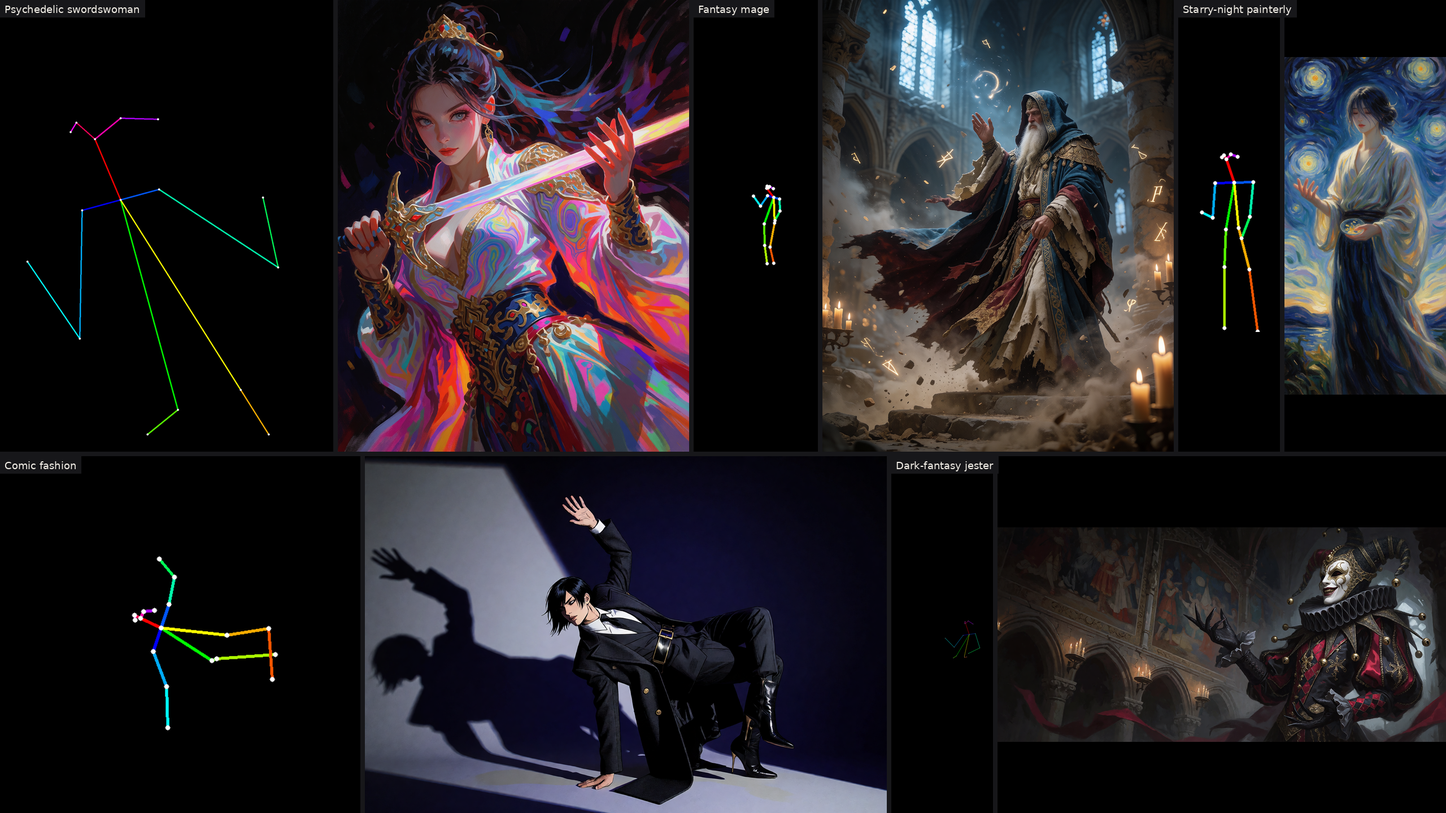
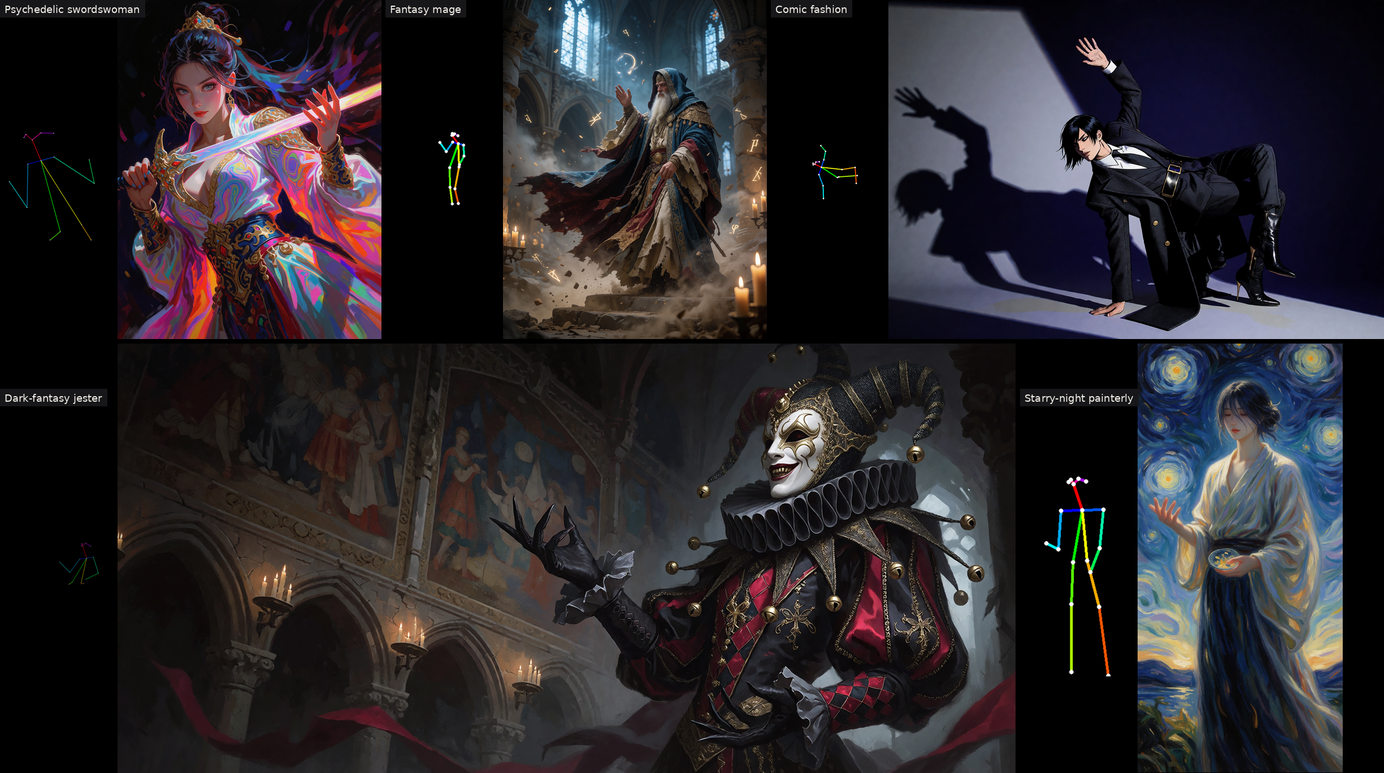
Finalize README showcase layout

diff --git a/scripts/build_final_showcase_collage.py b/scripts/build_final_showcase_collage.py
@@ -26,6 +26,25 @@ WINNERS = HERO_DIR / "final_winners.json"
 PUBLIC_COLLAGE = HERO_DIR / "final_showcase_collage.png"
 LABELED_COLLAGE = HERO_DIR / "final_showcase_collage_labeled.png"
 
+# The public collage is deliberately a dense, equal-weight composition.  Each
+# condition tile has this exact displayed bounding box; source-specific empty
+# space remains black through containment instead of cropping a keypoint.
+CONDITION_TILE_SIZE = (200, 600)
+COLLAGE_SIZE = (2449, 1368)
+GUTTER = 8
+# concept, x, y, generation height. The swordswoman is deliberately first.
+PAIR_ROWS = (
+    (
+        ("female_swordswoman_psychedelic", 0, 0, 600),
+        ("fantasy_mage", 682, 0, 600),
+        ("comic_fashion", 1364, 0, 600),
+    ),
+    (
+        ("dark_fantasy_jester", 0, 608, 760),
+        ("starry_night_painterly", 1805, 608, 760),
+    ),
+)
+
 # This is the user-approved public selection, expressed against frozen IDs.
 SELECTIONS = {
     "fantasy_mage": ("hero_variant", "fantasy_mage_hero_b"),
@@ -224,28 +243,16 @@ def font(size: int) -> ImageFont.ImageFont:
 
 
 def build_collage(contract: Mapping[str, Any], labeled: bool) -> Image.Image:
-    """Build a dense editorial canvas from five inseparable pose/image pairs.
+    """Build five attached, native-aspect-preserving condition/generation pairs.
 
-    Each block is a left condition and right generation.  Panels contain their
-    sources instead of cropping them: preserving a pose, silhouette, and the
-    generated composition takes priority over filling a mismatched rectangle.
-    The varying block sizes create hierarchy without leaving a separate control
-    tile or a presentation-artboard region.
+    The upper row establishes the swordswoman's display scale; the lower row
+    is only modestly taller to pack the jester and tall painterly winner
+    densely.  Every generation is fully contained, and every condition uses
+    the same 200 x 600 tile so no pose becomes a detached thumbnail.
     """
-    canvas = Image.new("RGB", (2560, 1440), "#17171a")
+    canvas = Image.new("RGB", COLLAGE_SIZE, "#000000")
     draw = ImageDraw.Draw(canvas)
     entries = {entry["concept"]: entry for entry in contract["winners"]}
-    # x, y, width, height. The 8 px gaps are the only exposed canvas.
-    # Reading order deliberately begins with the upper-left swordswoman pair.
-    # Source-aspect-friendly blocks make the largest artwork read first, while
-    # containment protects full figures, props, sky, cathedral, and shadows.
-    pair_blocks = {
-        "female_swordswoman_psychedelic": (0, 0, 1220, 800),
-        "fantasy_mage": (1228, 0, 850, 800),
-        "starry_night_painterly": (2086, 0, 474, 800),
-        "comic_fashion": (0, 808, 1570, 632),
-        "dark_fantasy_jester": (1578, 808, 982, 632),
-    }
     labels = {
         "fantasy_mage": "Fantasy mage",
         "dark_fantasy_jester": "Dark-fantasy jester",
@@ -253,33 +260,25 @@ def build_collage(contract: Mapping[str, Any], labeled: bool) -> Image.Image:
         "female_swordswoman_psychedelic": "Psychedelic swordswoman",
         "starry_night_painterly": "Starry-night painterly",
     }
-    pair_gap = 8
-    for concept, (x, y, width, height) in pair_blocks.items():
-        entry = entries[concept]
-        # Allocate the generation panel first.  Unlike the sparse black pose
-        # render, its aspect carries the actual artwork; giving it its native
-        # width wherever the pair permits minimizes letterboxing without ever
-        # cropping.  The condition remains a visibly attached left panel.
-        generation = Image.open(ROOT / entry["generation_path"])
-        generation_aspect = generation.width / generation.height
-        available_width = width - pair_gap
-        minimum_condition_width = min(180, available_width // 2)
-        generation_width = min(
-            round(height * generation_aspect),
-            available_width - minimum_condition_width,
-        )
-        condition_width = available_width - generation_width
-        condition_box = (x, y, condition_width, height)
-        generation_box = (x + condition_width + pair_gap, y, generation_width, height)
-        paste_contain(canvas, ROOT / entry["condition_path"], condition_box)
-        paste_contain(canvas, ROOT / entry["generation_path"], generation_box)
-        if labeled:
-            text = labels[concept]
-            padding = 8
-            text_box = draw.textbbox((0, 0), text, font=font(18))
-            text_width = text_box[2] - text_box[0]
-            draw.rectangle((x, y, x + text_width + 2 * padding, y + 30), fill="#17171a")
-            draw.text((x + padding, y + 6), text, fill="#f4f0e8", font=font(18))
+    condition_width, condition_height = CONDITION_TILE_SIZE
+    for row in PAIR_ROWS:
+        for concept, x, y, generation_height in row:
+            entry = entries[concept]
+            generation = Image.open(ROOT / entry["generation_path"])
+            generation_aspect = generation.width / generation.height
+            generation_width = round(generation_height * generation_aspect)
+            condition_y = y + (generation_height - condition_height) // 2
+            condition_box = (x, condition_y, condition_width, condition_height)
+            generation_box = (x + condition_width + GUTTER, y, generation_width, generation_height)
+            paste_contain(canvas, ROOT / entry["condition_path"], condition_box)
+            paste_contain(canvas, ROOT / entry["generation_path"], generation_box)
+            if labeled:
+                text = labels[concept]
+                padding = 8
+                text_box = draw.textbbox((0, 0), text, font=font(18))
+                text_width = text_box[2] - text_box[0]
+                draw.rectangle((x, condition_y, x + text_width + 2 * padding, condition_y + 30), fill="#17171a")
+                draw.text((x + padding, condition_y + 6), text, fill="#f4f0e8", font=font(18))
     return canvas
 
 

diff --git a/tests/test_build_final_showcase_collage.py b/tests/test_build_final_showcase_collage.py
@@ -14,6 +14,23 @@ SPEC.loader.exec_module(MODULE)
 
 
 class FinalShowcaseContractTest(unittest.TestCase):
+    def test_equal_weight_pair_geometry(self) -> None:
+        pairs = [pair for row in MODULE.PAIR_ROWS for pair in row]
+        self.assertEqual(
+            [concept for concept, *_ in pairs],
+            [
+                "female_swordswoman_psychedelic",
+                "fantasy_mage",
+                "comic_fashion",
+                "dark_fantasy_jester",
+                "starry_night_painterly",
+            ],
+        )
+        self.assertEqual(len(pairs), 5)
+        self.assertEqual(len({concept for concept, *_ in pairs}), 5)
+        self.assertEqual(MODULE.CONDITION_TILE_SIZE, (200, 600))
+        self.assertGreater(MODULE.COLLAGE_SIZE[0], MODULE.COLLAGE_SIZE[1])
+
     def test_frozen_winner_selection_and_assets(self) -> None:
         contract = MODULE.build_contract()
         MODULE.verify_contract(contract)

diff --git a/docs/CODEX_HANDOFF.md b/docs/CODEX_HANDOFF.md
@@ -2,45 +2,36 @@
 
 ## Current objective
 
-The final hero-v1 collage correction is complete. The public/review collages
-now use uncropped, aspect-preserving artwork and lead with the psychedelic
-swordswoman pair. Do not modify frozen release settings, benchmark artifacts,
-winner metadata, prompts, training/evaluation code, checkpoints, or evaluation
-claims as part of showcase documentation work.
+The final public showcase collage and README presentation are complete. Do not
+modify frozen winner selection, prompts, hero-generation assets, prompting
+guide, release contract, benchmarks, training code, or evaluation code as part
+of this completed showcase milestone.
 
-## Definitive public winners
+## Final public showcase
 
-The selection is recorded in
-`docs/showcase/final/hero-v1/final_winners.json`:
-
-- `fantasy_mage` — hero variant B (`fantasy_mage_hero_b`)
-- `dark_fantasy_jester` — original accepted winner
-- `comic_fashion` — hero variant B (`comic_fashion_hero_b`)
-- `female_swordswoman_psychedelic` — original accepted winner
-- `starry_night_painterly` — hero variant A (`starry_night_painterly_hero_a`)
-
-## Public assets and prompt guidance
-
-- Public collage:
-  `docs/showcase/final/hero-v1/final_showcase_collage.png`
+- Public collage: `docs/showcase/final/hero-v1/final_showcase_collage.png`
 - Labeled review collage:
   `docs/showcase/final/hero-v1/final_showcase_collage_labeled.png`
+- Frozen winner contract: `docs/showcase/final/hero-v1/final_winners.json`
 - Reproducible builder: `scripts/build_final_showcase_collage.py`
-- Prompt guide: `prompting.md`
 
-The builder reads winner provenance from frozen manifests and copied sidecars.
-It only composes the existing condition and generation images. The final
-2560×1440 editorial layout consists exclusively of five attached
-`[condition | generation]` pairs, with condition on the left and generation on
-the right. The upper-left, first-read, dominant pair is the psychedelic
-swordswoman. All panels use aspect-preserving containment on black rather than
-crop or distortion, so generation composition and every skeleton keypoint are
-preserved. It has no public labels or floating control tiles; the labeled
-variant has identical geometry and one small concept label per pair.
+The builder creates a dense 2449×1368 landscape composition with five
+inseparable horizontal `[condition | generation]` pairs. Normal reading order
+begins with the psychedelic female swordswoman. Every condition has the same
+displayed 200×600 bounding tile and is fully contained on black. Every
+generation uses native-aspect containment with no crop or distortion. The
+jester has a substantial 760-pixel-high panel, while the other generations
+are 600 or 760 pixels high according to the two-row native-aspect packing;
+none is relegated to a thumbnail. The labeled version uses identical geometry
+and adds only small concept labels.
 
-`prompting.md` retains its core rule, reusable recipe, control/scale guidance,
-frozen examples, conflicting-prompt example, pasteable LLM instruction, and
-optional Style-LoRA guidance. Stray SVG rendering/copy artifacts are absent.
+## README
+
+`README.md` now has a concise `## Showcase` section immediately after the
+introduction. It presents only the final public collage and links to
+`prompting.md`. The prior Status section, stale individual showcase examples,
+review-sheet links, and interim showcase prose were removed. Other inference,
+evaluation, and benchmark material was left unchanged.
 
 ## Verification this session
 
@@ -51,19 +42,23 @@ UV_CACHE_DIR=/tmp/krea2-uv-cache uv run python scripts/build_final_showcase_coll
 UV_CACHE_DIR=/tmp/krea2-uv-cache uv run python scripts/build_final_showcase_collage.py --check
 UV_CACHE_DIR=/tmp/krea2-uv-cache uv run python -m py_compile scripts/build_final_showcase_collage.py
 UV_CACHE_DIR=/tmp/krea2-uv-cache uv run python -m unittest tests.test_build_final_showcase_collage -v
-# 2 tests passed: frozen winner/assets contract and frozen prompt identity
+git diff --check
 ```
 
-Additional local verification confirmed both output PNGs exist, are RGB
-2560×1440 landscape images. Both were visually inspected: all five pairs are
-attached and condition-left; the swordswoman is first and upper-left; source
-content is fully visible without distortion; starry-night retains its full
-figure and sky; mage, comic, swordswoman, and jester retain their intended
-composition. `git diff --check` passes.
+The focused collage tests pass (3 tests): frozen winner/assets contract,
+frozen prompt identity, and equal-weight geometry/order. Both output PNGs were
+confirmed as RGB 2449×1368 landscape images and visually inspected: five
+concepts appear exactly once; each condition is attached on the left of its
+generation; all condition tiles share dimensions; skeletons and native
+generation compositions are fully visible; and no large unused canvas region
+is present. README was checked for the new public image path and for the
+absence of Status / Project Status / Current Status headings.
 
 ## Files changed this session
 
+- `README.md`
 - `scripts/build_final_showcase_collage.py`
+- `tests/test_build_final_showcase_collage.py`
 - `docs/showcase/final/hero-v1/final_showcase_collage.png`
 - `docs/showcase/final/hero-v1/final_showcase_collage_labeled.png`
 - `docs/CODEX_HANDOFF.md`
@@ -72,5 +67,5 @@ No GPU-dependent work remains. No commit or push was performed.
 
 ## Next recommended action
 
-Review the corrected public collage, then stage and commit the existing
-repository changes when ready.
+Review the final collage and README, then stage and commit the existing
+changes when ready.

diff --git a/README.md b/README.md
@@ -4,21 +4,15 @@ Skeleton-conditioned pose control for Krea-2. The pose image controls **body geo
 
 Training uses **Krea-2 Raw**. Inference and evaluation use **Krea-2 Turbo**.
 
-## Status
+## Showcase
 
-The Pose Control-LoRA has been trained for Krea-2 Raw and evaluated/deployed on Krea-2 Turbo. The current quantitative release candidate is **mix-025**, pending the remaining release experiments; it is not final.
+The pose condition controls broad body geometry while the prompt controls compatible identity, clothing, environment, lighting, and rendering style.
 
-### Curated generations
+<p align="center">
+  <img src="docs/showcase/final/hero-v1/final_showcase_collage.png" alt="Krea-2 Pose Control final showcase" width="100%">
+</p>
 
-| Condition | Generation |
-|---|---|
-| ![Fantasy Mage condition](docs/assets/showcase/final/fantasy-mage/condition.png) | ![Fantasy Mage generation](docs/assets/showcase/final/fantasy-mage/generation.png) |
-| ![Gojo-inspired Mural condition](docs/assets/showcase/final/gojo-mural/condition.png) | ![Gojo-inspired Mural generation](docs/assets/showcase/final/gojo-mural/generation.png) |
-| ![Dark-fantasy Jester condition](docs/assets/showcase/final/jester/condition.png) | ![Dark-fantasy Jester generation](docs/assets/showcase/final/jester/generation.png) |
-
-These are curated qualitative demonstrations. Franchise-inspired examples are fan-art-style demonstrations only.
-
-The definitive public package is the [final hero collage](docs/showcase/final/hero-v1/final_showcase_collage.png), with a [labeled review version](docs/showcase/final/hero-v1/final_showcase_collage_labeled.png), [frozen winner contract](docs/showcase/final/hero-v1/final_winners.json), and [prompting guide](prompting.md).
+See [prompting.md](prompting.md) for prompt structure, control-strength guidance, examples, and common failure modes.
 
 ## Current evaluation candidate
 
